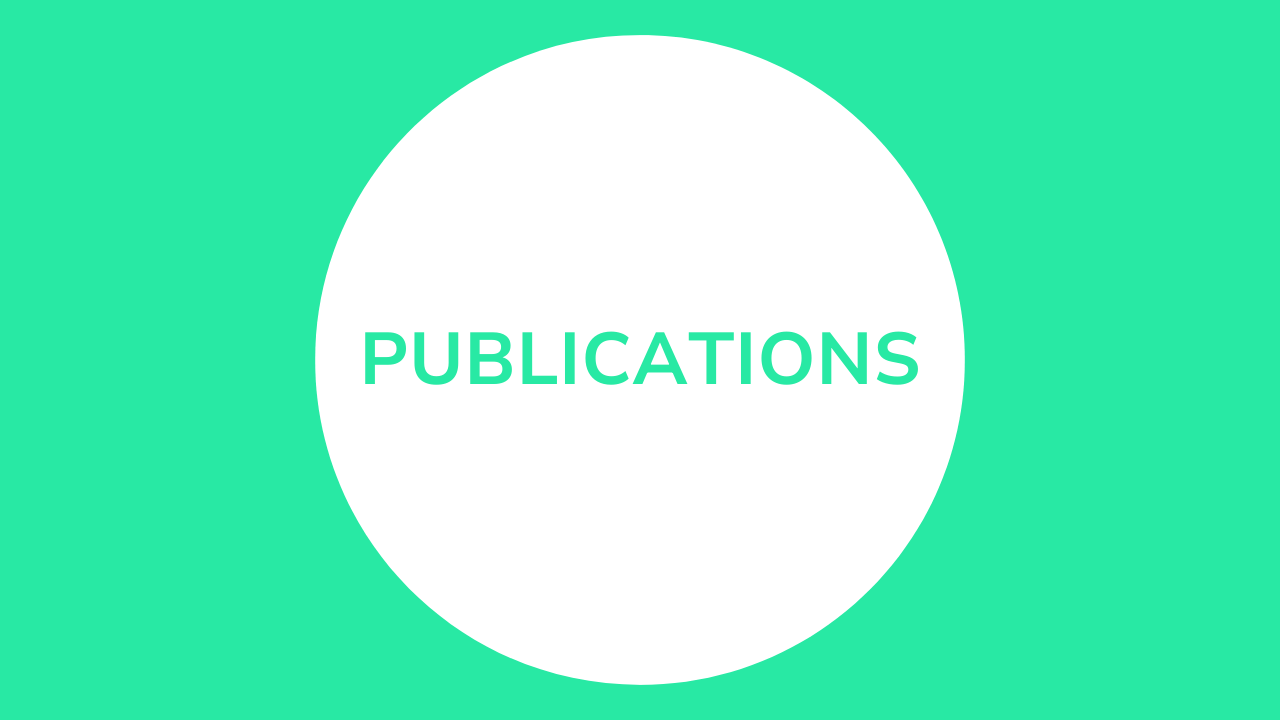
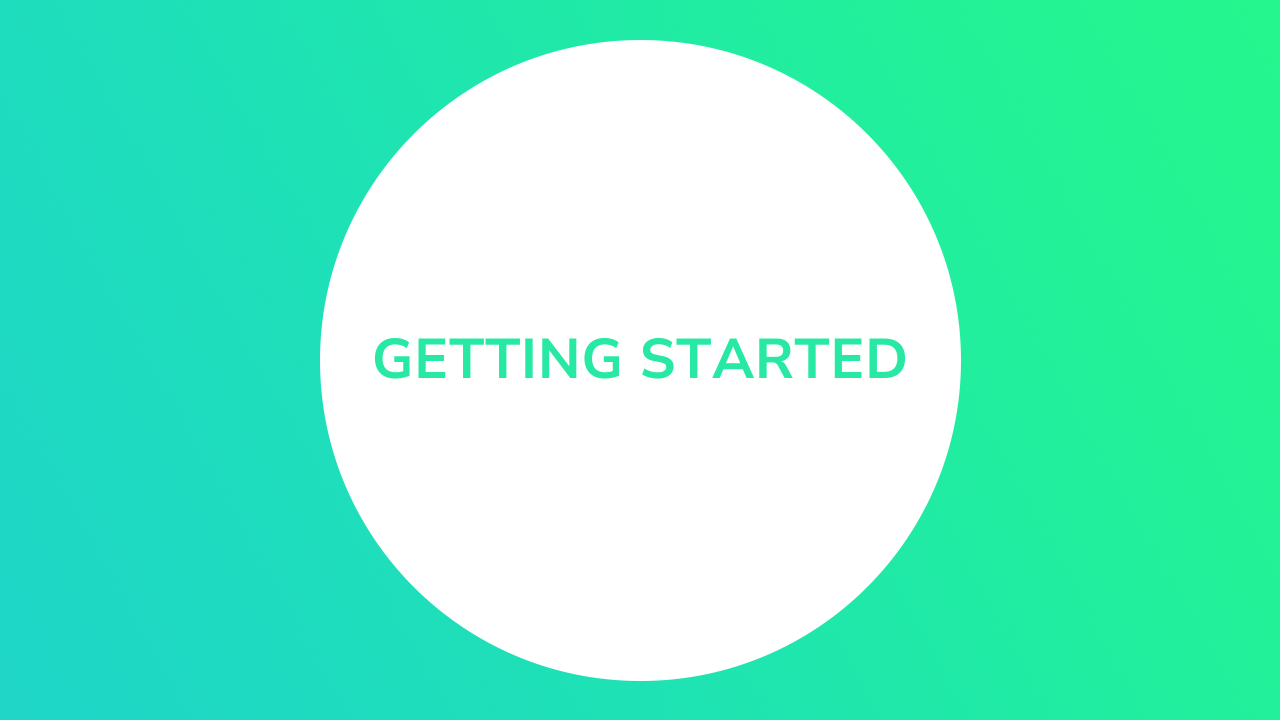
Reconcile "How to Manage Articles (For Editors)" with shipped editor UI

diff --git a/publications/how-to-manage-articles-for-editors.md b/publications/how-to-manage-articles-for-editors.md
@@ -1,25 +1,12 @@
 # How to Manage Articles (For Editors)
 
-Editors can manage articles by reviewing, editing and publishing them.&#x20;
+Editors manage a publication's articles by reviewing, editing and publishing them.
 
-Articles submitted by authors will appear on the Publication page for editors to review:
+When an author submits an article to your publication, it appears in your publication's article list for you to review.
 
-<figure><img src="../.gitbook/assets/Screenshot 2026-02-16 at 12.54.09.png" alt=""><figcaption><p>Article List and Submitted Article</p></figcaption></figure>
+From the article list, an editor can:
 
-To manage articles, editors can:
+* Open an article by clicking its title. This opens the article so you can read and review it, and make any edits before it goes live.
+* Publish or unpublish an article with the Live toggle on its row. Turn the toggle on to publish the article; turn it off to take a live article back down.
 
-Click on the article link and review the article:
-
-<figure><img src="../.gitbook/assets/articlelink.png" alt=""><figcaption><p>Article Link</p></figcaption></figure>
-
-Click on the meatball menu to edit, publish, or mint the article:
-
-<figure><img src="../.gitbook/assets/Screenshot 2026-02-16 at 12.59.45.png" alt=""><figcaption><p>Meatball Menu</p></figcaption></figure>
-
-Categorise the article into one of your categories:
-
-<figure><img src="../.gitbook/assets/categor.png" alt=""><figcaption><p>Category Dropdown</p></figcaption></figure>
-
-Select the toggle to publish and unpublish:
-
-<figure><img src="../.gitbook/assets/pubunpub.png" alt=""><figcaption><p>Toggle Button</p></figcaption></figure>
+Each row also shows the article's published and modified dates. Article stats and assigning categories to articles are coming soon.
